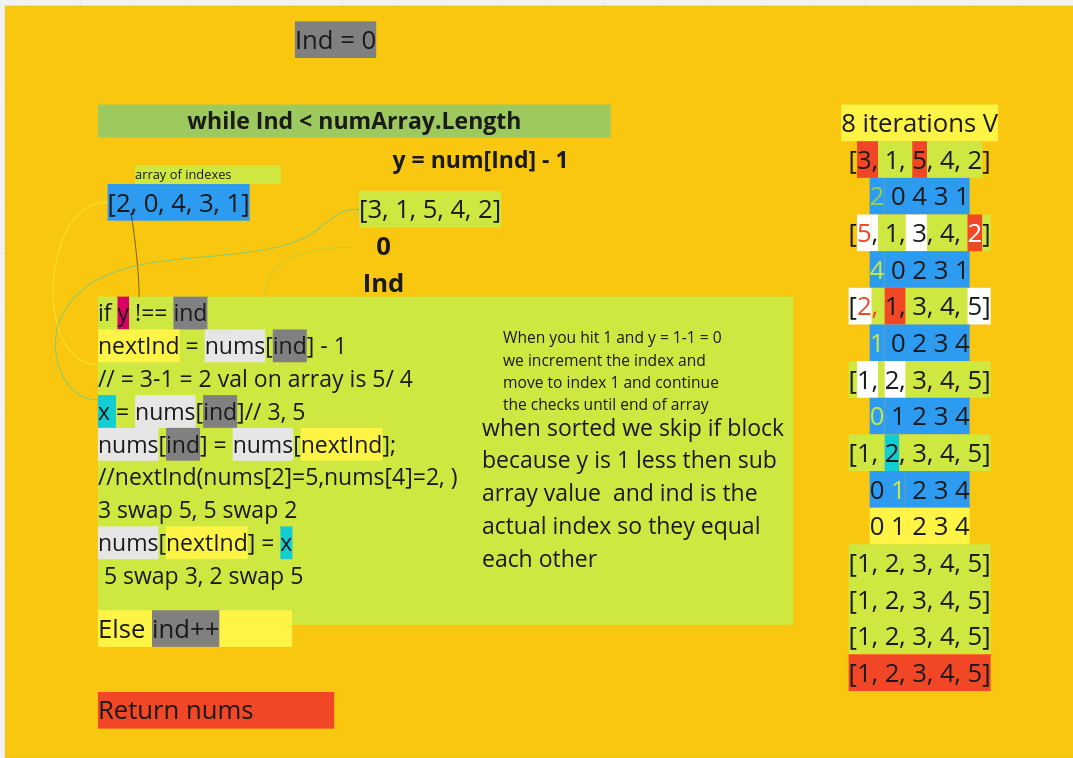
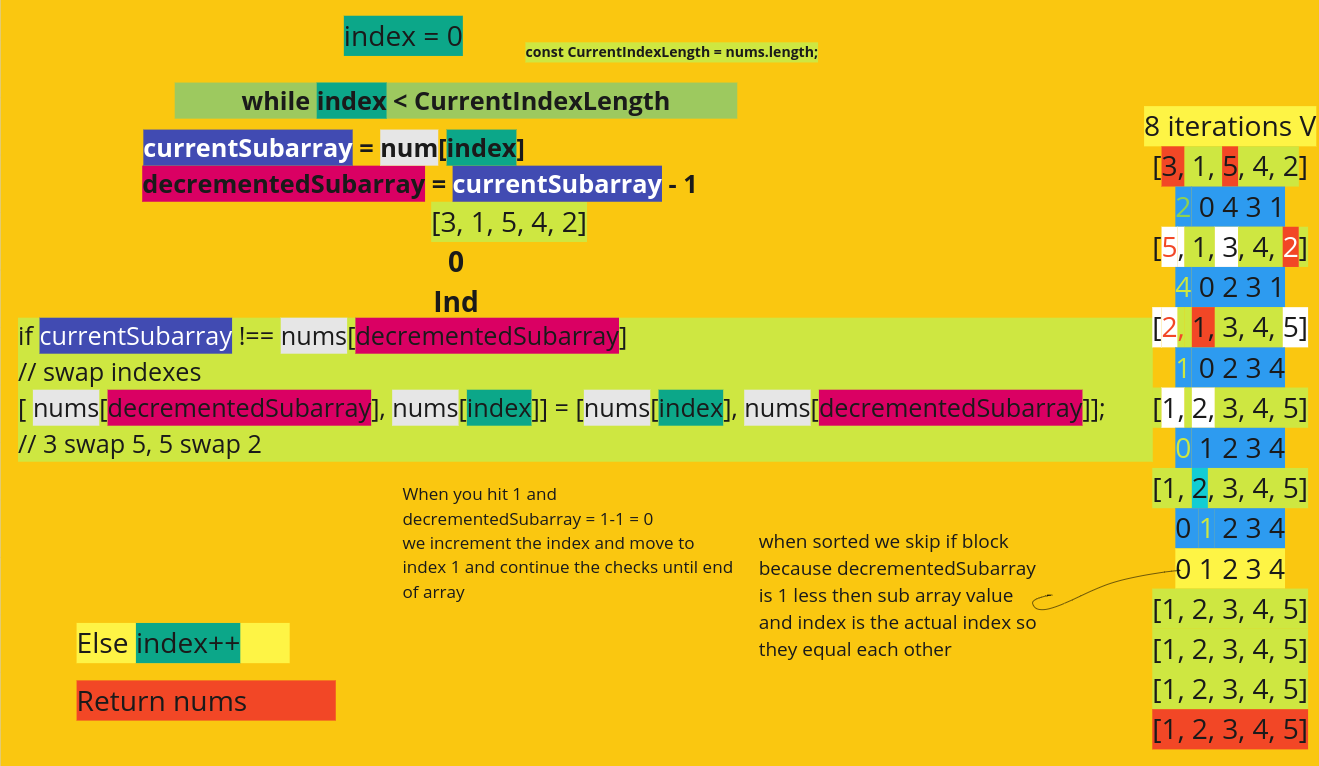
edit cyclic

diff --git a/Code/_Grokking_Algo & Leetcode/Cyclic Sort/Javascript/lc268.js b/Code/_Grokking_Algo & Leetcode/Cyclic Sort/Javascript/lc268.js
@@ -95,15 +95,55 @@ const runTimeStart = (arg) => console.time(arg)
 const runTimeEnd = (arg) => console.timeEnd(arg)
 
 
-const find_missing_number = function (nums) {
+const find_missing_number = (nums) =>{
+  let index = 0;
+  let count = 0;
+  const CurrentIndexLength = nums.length;
+
+  
+  while (index < CurrentIndexLength){
+
+    // let decrementedSubarray = nums[index] -1; 
+
+    let currentSubarray = nums[index];
+
+
+    if (nums[index] < CurrentIndexLength && nums[index] !== nums[currentSubarray]){
+  
+      // let nextIndex = nums[index] - 1; 
+      // let nextIndex = decrementedSubarray; 
+      // nums[index] = nums[nextIndex];
+      // nums[nextIndex] = currentSubarray; 
+      [ nums[index], nums[currentSubarray]] = [nums[currentSubarray], nums[index]]; // swap indexs
+
+  
+    } else{
+  
+      index++;
+  
+    }
+
+  }
+   
+
+  for (index = 0; index < CurrentIndexLength; index++) {
+    if (nums[index] !== index) {
+      return index;
+    }
+  }
+
+  return CurrentIndexLength;
+  
+
 
 
 }
 
 runTimeStart("Runtime")
-find_missing_numberSol([4, 0, 3, 1])
-console.log(find_missing_numberSol([4, 0, 3, 1]));
-console.log(find_missing_numberSol([8, 3, 5, 2, 4, 6, 0, 1]));
+// log(find_missing_number([3, 1, 5, 4, 2]))
+log(find_missing_number([3, 0, 1])) // 2
+log(find_missing_number([0, 1])); // 2
+log(find_missing_number([9,6,4,2,3,5,7,0,1])); // 8
 runTimeEnd("Runtime")
 
 
@@ -115,9 +155,9 @@ const find_missing_numberSol = function (nums) {
   let index = 0;
   const CurrentIndex = nums.length;
   while (index < CurrentIndex) {
-    let j = nums[index];
-    if (nums[index] < CurrentIndex && nums[index] !== nums[j]) {
-      [nums[index], nums[j]] = [nums[j], nums[index]]; // swap indexs
+    let currentSubarray = nums[index];
+    if (nums[index] < CurrentIndex && nums[index] !== nums[currentSubarray]) {
+      [nums[index], nums[currentSubarray]] = [nums[currentSubarray], nums[index]]; // swap indexs
     } else {
       index++;
     }
@@ -132,38 +172,7 @@ const find_missing_numberSol = function (nums) {
   return CurrentIndex;
 };
 
-// find_missing_numberSol([4, 0, 3, 1]);
-// console.log(find_missing_numberSol([4, 0, 3, 1]));
-// console.log(find_missing_numberSol([8, 3, 5, 2, 4, 6, 0, 1]));
 
-// Solution
-// -----
-// function find_missing_number(nums) {
-//   let i = 0;
-//   const n = nums.length;
-//   while (i < n) {
-//     j = nums[i];
-//     if (nums[i] < n && nums[i] !== nums[j]) {
-//       [nums[i], nums[j]] = [nums[j], nums[i]]; // swap
-//     } else {
-//       i += 1;
-//     }
-//   }
-
-//   // find the first number missing from its index, that will be our required number
-//   for (i = 0; i < n; i++) {
-//     if (nums[i] !== i) {
-//       return i;
-//     }
-//   }
-
-//   return n;
-// }
-
-// -----
-
-// Time complexity #
-// The time complexity of the above algorithm is O(n). In the while loop, although we are not incrementing the index i when swapping the numbers, this will result in more than n iterations of the loop, but in the worst-case scenario, the while loop will swap a total of n-1 numbers and once a number is at its correct index, we will move on to the next number by incrementing i. In the end, we iterate the input array again to find the first number missing from its index, so overall, our algorithm will take O(n) + O(n-1) + O(n) which is asymptotically equivalent to O(n).
-
-// Space complexity #
-// The algorithm runs in constant space O(1).
+// log(find_missing_numberSol([3, 0, 1])) // 2
+// log(find_missing_numberSol([0, 1])); // 2
+// log(find_missing_numberSol([9,6,4,2,3,5,7,0,1])); // 8

diff --git a/Code/_Grokking_Algo & Leetcode/Cyclic Sort/Javascript/cyclicSortEasy.js b/Code/_Grokking_Algo & Leetcode/Cyclic Sort/Javascript/cyclicSortEasy.js
@@ -57,40 +57,32 @@ const table = (arg) => console.table(arg)
 
 const cyclic_sort = function (nums) {
 let index = 0;
-let count = 0;
+const CurrentIndexLength = nums.length;
 
-while (index < nums.length){
-  let y = nums[index] -1; 
-  // log(y)
-  if (y != index){
-    // log("index atfer if", nums[index])
-
-    let nextIndex = nums[index] - 1; 
-    // log("index atfer nextIndex", nums[index] - 1)
+while (index < CurrentIndexLength){
+  const currentSubarray = nums[index];
+  const decrementedSubarray = currentSubarray -1; 
 
 
-    let x = nums[index];
+  // if (decrementedSubarray != index){
+    if (currentSubarray != nums[decrementedSubarray]){
 
 
-    nums[index] = nums[nextIndex];
-    // log("index update", nums[index])
-    // log("nextIndex before update", nums[nextIndex])
-    // log("x before update", x)
-    
+    // let nextIndex = decrementedSubarray; 
 
-    nums[nextIndex] = x; 
-    // log("nextIndex atfer update", nums[nextIndex])
-    // log(`\n`)
-    // log("Pre", nums, "Post")
+    // nums[index] = nums[nextIndex];
+    // nums[nextIndex] = x;
+    // [ nums[nextIndex], nums[index]] = [currentSubarray, nums[nextIndex]]; // swap indexs
+    [ nums[decrementedSubarray], nums[index]] = [nums[index], nums[decrementedSubarray]]; // swap indexs
+
 
 
   } else{
 
-    index++;
+    ++index;
 
   }
-  // log("Pre", nums, "Post")
-// log("", ++count, "")
+  
 }
  
 
@@ -99,30 +91,6 @@ while (index < nums.length){
 
 
 log(cyclic_sort([3, 1, 5, 4, 2]))
+log(cyclic_sort([2, 6, 4, 3, 1, 5]))
+log(cyclic_sort([1, 5, 6, 4, 3, 2]))
 
-// console.log(`${cyclic_sort([3, 1, 5, 4, 2])}`);
-// console.log(`${cyclic_sort([2, 6, 4, 3, 1, 5])}`);
-// console.log(`${cyclic_sort([1, 5, 6, 4, 3, 2])}`);
-
-// Solution
-// -----
-// function cyclic_sort(nums) {
-//   let i = 0;
-//   while (i < nums.length) {
-//     const j = nums[i] - 1;
-    // if (nums[i] !== nums[j]) {
-//       [nums[i], nums[j]] = [nums[j], nums[i]]; // swap array destructuring
-//     } else {
-//       i += 1;
-//     }
-//   }
-//   return nums;
-// }
-
-// -----
-
-// Time complexity #
-// The time complexity of the above algorithm is O(n). Although we are not incrementing the index i when swapping the numbers, this will result in more than ‘n’ iterations of the loop, but in the worst-case scenario, the while loop will swap a total of ‘n-1’ numbers and once a number is at its correct index, we will move on to the next number by incrementing i. So overall, our algorithm will take O(n) + O(n-1) which is asymptotically equivalent to O(n).
-
-// Space complexity #
-// The algorithm runs in constant space O(1).

diff --git a/Code/_Grokking_Algo & Leetcode/Cyclic Sort/Javascript/lc448.js b/Code/_Grokking_Algo & Leetcode/Cyclic Sort/Javascript/lc448.js
@@ -96,39 +96,73 @@ const runTimeStart = (arg) => console.time(arg)
 const runTimeEnd = (arg) => console.timeEnd(arg)
 
 const findDisappearedNumbers = function(nums) {
-  missingNumbers = [];
+  let index = 0;
+  const CurrentIndexLength = nums.length;
 
-  return missingNumbers;
+while (index < CurrentIndexLength){
+  const currentSubarray = nums[index];
+  const decrementedSubarray = currentSubarray -1; 
+
+  if (currentSubarray != nums[decrementedSubarray]){
+    
+
+    [ nums[index], nums[decrementedSubarray]] = [nums[decrementedSubarray], nums[index]]; 
+
+  } else{
+
+    ++index;
+
+  }
+
+}
+let result = []
+
+  for (index = 0; index < CurrentIndexLength; index++) {
+    if (nums[index] !== index + 1) {
+      result.push(index + 1);
+    }
+    // log(result);
+  }
+
+ return result
+
+
 };
 
-runTimeStart("Runtime")
+// runTimeStart("Runtime")
 log(findDisappearedNumbers([4,3,2,7,8,2,3,1])); // [5,6]
-log(findDisappearedNumbers([2, 4, 1, 2]));// [2]
-runTimeEnd("Runtime")
+log(findDisappearedNumbers([1, 1]));// [2]
+// runTimeEnd("Runtime")
 
 
 // Solution
 // -----
-// function find_missing_numbers(nums) {
-//   let i = 0;
-//   while (i < nums.length) {
-//     const j = nums[i] - 1;
-//     if (nums[i] !== nums[j]) {
-//       [nums[i], nums[j]] = [nums[j], nums[i]]; // swap
-//     } else {
-//       i += 1;
-//     }
-//   }
-//   missingNumbers = [];
+function find_missing_numbers(nums) {
+  let i = 0;
+  while (i < nums.length) {
+    const j = nums[i] - 1;
+    if (nums[i] !== nums[j]) {
+      [nums[i], nums[j]] = [nums[j], nums[i]]; // swap
+    } else {
+      i += 1;
+    }
+  }
+  missingNumbers = [];
 
-//   for (i = 0; i < nums.length; i++) {
-//     if (nums[i] !== i + 1) {
-//       missingNumbers.push(i + 1);
-//     }
-//   }
+  for (i = 0; i < nums.length; i++) {
+    if (nums[i] !== i + 1) {
+      missingNumbers.push(i + 1);
+    }
+  }
 
-//   return missingNumbers;
-// }
+  return missingNumbers;
+}
+
+runTimeStart("Runtime")
+log(find_missing_numbers([4,3,2,7,8,2,3,1])); // [5,6]
+log(find_missing_numbers([1, 1]));// [2]
+runTimeEnd("Runtime")
+
 
 // -----
 
